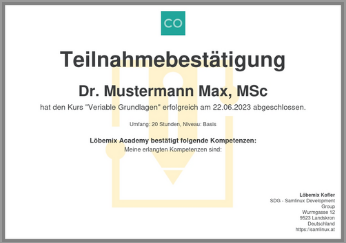
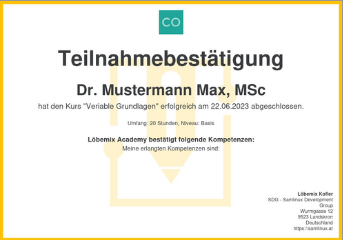
A22973

diff --git a/templates/de_k_4.html b/templates/de_k_4.html
@@ -14,7 +14,7 @@
       height: 773px;
       width: 1103px;
       position: relative;
-      border: 10px solid gray;
+      border: 10px solid #ffc107;
       color: #3c3e3f;
     }
 
@@ -148,7 +148,7 @@
       <div>{{TPL_ORG_ReferenzLink}}</div>
     </div>
 
-    <div class="backgroundImageContainer">{{{TPL_IMAGE_6}}}</div>
+    <div class="backgroundImageContainer">{{{GLOBAL_TPL_IMAGE_1}}}</div>
   </div>
 
 </body>

diff --git a/templates/de_z_4.html b/templates/de_z_4.html
@@ -14,7 +14,7 @@
       height: 773px;
       width: 1103px;
       position: relative;
-      border: 10px solid gray;
+      border: 10px solid #ffc107;
       color: #3c3e3f;
     }
 
@@ -164,7 +164,7 @@
       <div>{{TPL_ORG_ReferenzLink}}</div>
     </div>
 
-    <div class="backgroundImageContainer">{{{TPL_IMAGE_6}}}</div>
+    <div class="backgroundImageContainer">{{{GLOBAL_TPL_IMAGE_1}}}</div>
   </div>
 
 </body>

diff --git a/templates/en_k_4.html b/templates/en_k_4.html
@@ -14,7 +14,7 @@
       height: 773px;
       width: 1103px;
       position: relative;
-      border: 10px solid gray;
+      border: 10px solid #ffc107;
       color: #3c3e3f;
     }
 
@@ -148,7 +148,7 @@
       <div>{{TPL_ORG_ReferenzLink}}</div>
     </div>
 
-    <div class="backgroundImageContainer">{{{TPL_IMAGE_6}}}</div>
+    <div class="backgroundImageContainer">{{{GLOBAL_TPL_IMAGE_1}}}</div>
   </div>
 
 </body>

diff --git a/templates/en_z_4.html b/templates/en_z_4.html
@@ -14,7 +14,7 @@
       height: 773px;
       width: 1103px;
       position: relative;
-      border: 10px solid gray;
+      border: 10px solid #ffc107;
       color: #3c3e3f;
     }
 
@@ -164,7 +164,7 @@
       <div>{{TPL_ORG_ReferenzLink}}</div>
     </div>
 
-    <div class="backgroundImageContainer">{{{TPL_IMAGE_6}}}</div>
+    <div class="backgroundImageContainer">{{{GLOBAL_TPL_IMAGE_1}}}</div>
   </div>
 
 </body>
